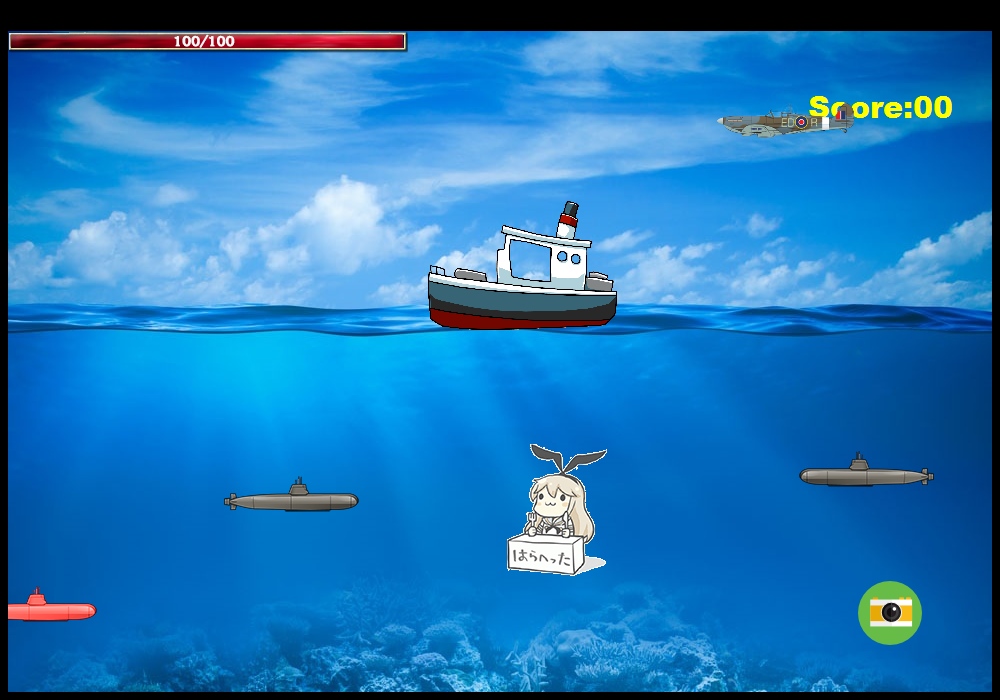
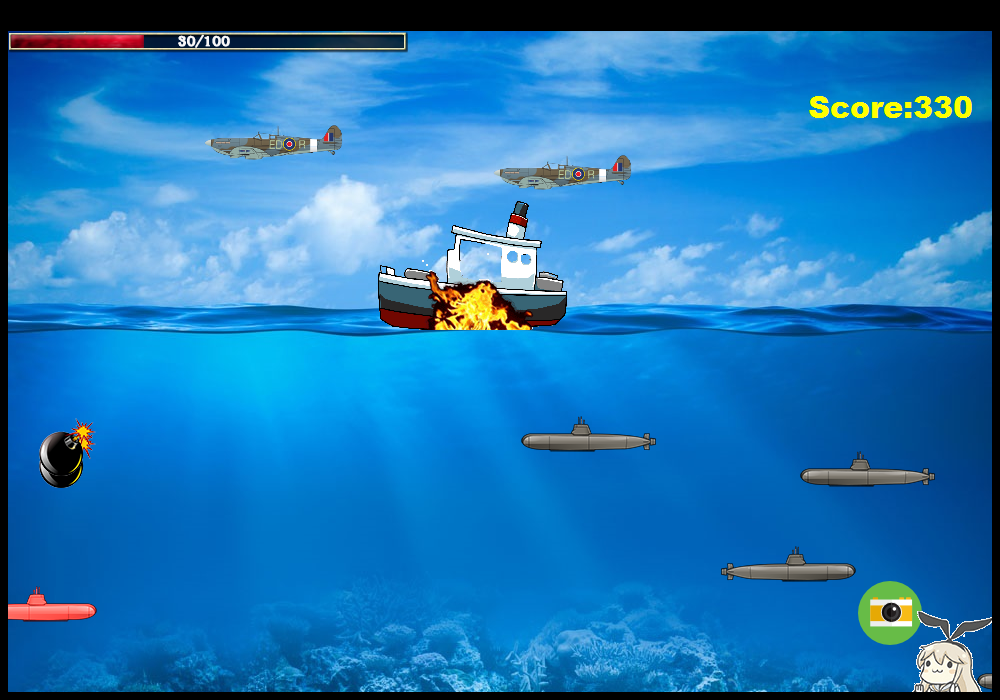
ADD level

diff --git a/src/Score.java b/src/Score.java
@@ -16,7 +16,8 @@ public class Score extends JLabel {
 	String[] userNameArr = new String[5];
 	SubmarineMain game;
 	boolean scoreSaved;
-	
+	JLabel lv = new JLabel();
+	int LV=1;
 	//Name&score labels for scoreboard
 	JLabel a = new JLabel();
 	JLabel b = new JLabel();
@@ -34,11 +35,17 @@ public class Score extends JLabel {
 		//this.gameOver = gameOver;
 		
 		
-		setLocation(800, 0);
+		setLocation(800, -50);
 		setSize(300, 150);
 		setText("Score:00");
 		setFont(new Font("Arial Black", Font.PLAIN, 30));
 		setForeground(Color.YELLOW);
+		lv.setLocation(1,1);
+		lv.setSize(300,20);
+		lv.setText("LV:1");
+		lv.setFont(new Font("Arial Black", Font.PLAIN, 20));
+		lv.setForeground(Color.RED);
+		game.add(lv);
 		try{
 			FileReader fr = new FileReader("scorerecord.txt");
 			BufferedReader br = new BufferedReader(fr);
@@ -138,13 +145,16 @@ public class Score extends JLabel {
 	public void addScore(int i) {
 		score = score + i;
 		this.setText("Score:" + score);
+		LV=score/100+1;
+		lv.setText("LV:"+LV);
 		// 加血量
 		if ((score - health_sign) / 50 == 1) {
 			health_sign = score;
 			game.add_health();
 		}
+		
 	}
-
+	
 	public void reset_score() {
 		score = 0;
 		setText("Score:00");
@@ -155,7 +165,9 @@ public class Score extends JLabel {
 			scoreSaved=true;
 		try{
 			
-			
+			if(userName.equals("<Input your name here>")){
+				userName="Iamsohandsome";
+			}
 			
 		
 			FileWriter fw = new FileWriter("scorerecord.txt");

diff --git a/src/SubmarineMain.java b/src/SubmarineMain.java
@@ -187,7 +187,7 @@ public class SubmarineMain extends JFrame implements MouseMotionListener {
 	// 鍵盤控制 signal from KeyInput class
 	long lastShoot = System.currentTimeMillis();
 	long lastShoot2 = System.currentTimeMillis();
-	final long threshold = 800;
+	
 	final long threshold2 = 1800;
 	public void keyPressed(KeyEvent e) {
 		int key = e.getKeyCode();
@@ -202,6 +202,7 @@ public class SubmarineMain extends JFrame implements MouseMotionListener {
 			// Create BOMB from SHIP
 			// new Bomb(ship.get_X() + 80, ship.get_Y() + 80, this, ctrl);
 			long now = System.currentTimeMillis();
+			long threshold = 800-(score.LV-1)*50;
 			if (now - lastShoot > threshold) {
 				bomb.addBomb((int) ship.get_X()+80, (int) ship.get_Y()+80);
 				bombMusic.play();
@@ -236,7 +237,7 @@ public class SubmarineMain extends JFrame implements MouseMotionListener {
 	}
 
 	public void addScore(int i) {
-		score.addScore(i);
+		score.addScore(i);			
 	}
 
 	public void add_health() {

diff --git a/src/HealthBar.java b/src/HealthBar.java
@@ -24,7 +24,7 @@ public class HealthBar extends JLabel {
 
 	public HealthBar() {
 		setIcon(icon1);
-		setLocation(0, 0);
+		setLocation(90, 0);
 		setSize(400, 22);
 	}
 
